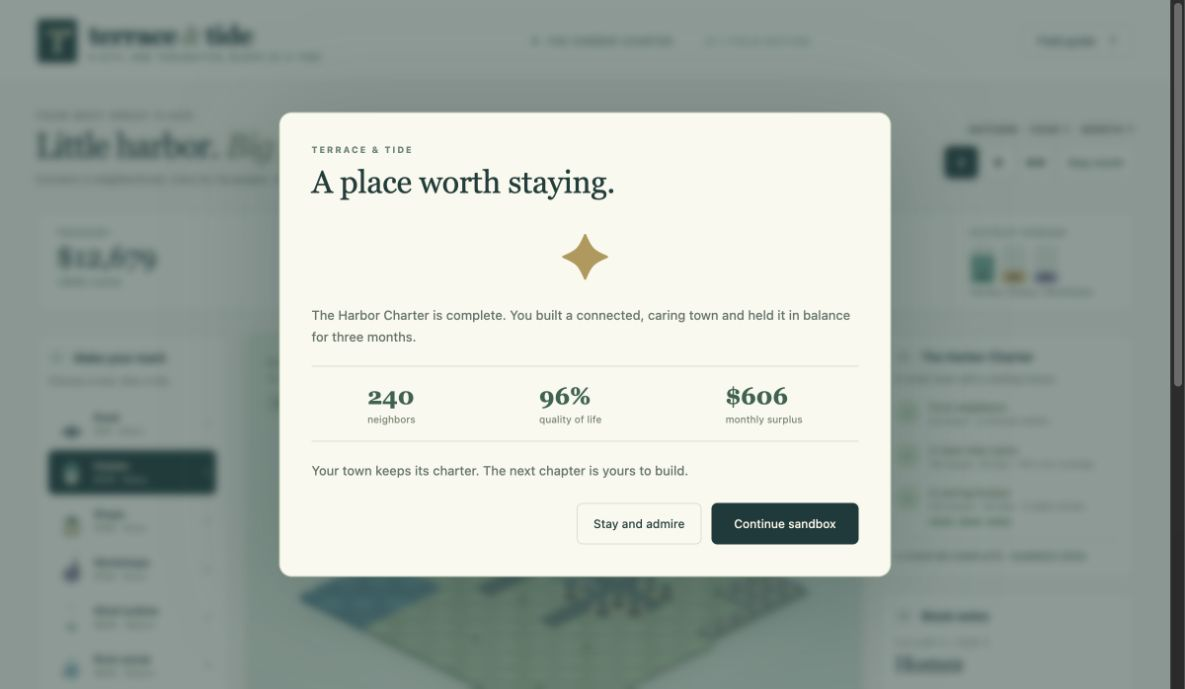
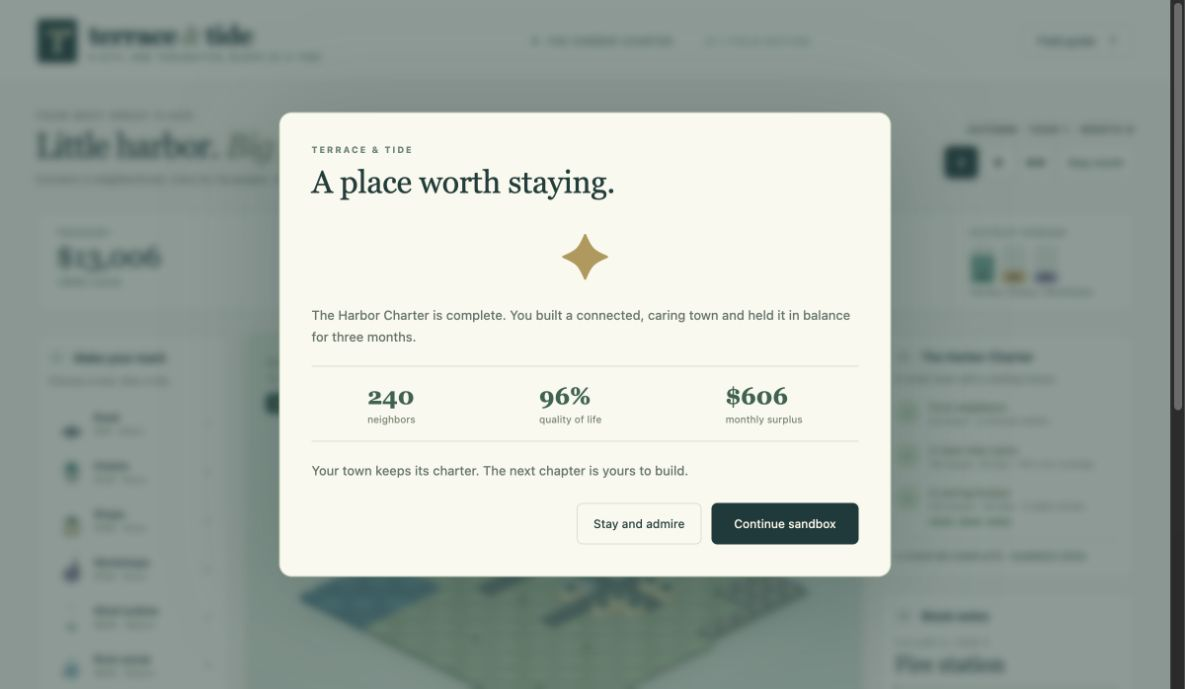
docs: record actual gameplay, review fixes and accessible save fallback

diff --git a/src/main.ts b/src/main.ts
@@ -484,13 +484,25 @@ $('#load').onclick = () => {
   }
 };
 $('#export').onclick = () => {
-  const url = URL.createObjectURL(new Blob([serialize(city)], { type: 'application/json' }));
-  const a = document.createElement('a');
-  a.href = url;
-  a.download = `terrace-tide-month-${city.month}.json`;
-  a.click();
-  setTimeout(() => URL.revokeObjectURL(url), 1000);
-  notify('City file downloaded. Import it here to continue later.');
+  const raw = serialize(city);
+  modal(
+    'Keep your city safe.',
+    '<p>Download a JSON file, or select and copy the complete save below. Import accepts either a file or pasted JSON. These are local files; nothing is uploaded.</p><label class="save-json-label" for="export-json">City save JSON</label><textarea id="export-json" rows="5" readonly></textarea>',
+    'Download JSON',
+    () => {
+      const url = URL.createObjectURL(new Blob([raw], { type: 'application/json' }));
+      const a = document.createElement('a');
+      a.href = url;
+      a.download = `terrace-tide-month-${city.month}.json`;
+      document.body.append(a);
+      a.click();
+      a.remove();
+      setTimeout(() => URL.revokeObjectURL(url), 1000);
+      notify('Save download requested. You can also copy JSON from Download save.');
+    },
+    'Close',
+  );
+  $<HTMLTextAreaElement>('#export-json').value = raw;
 };
 $('#import').onclick = () => {
   modal(

diff --git a/index.html b/index.html
@@ -1,1 +1,1 @@
-<!doctype html><html lang="en"><head><meta charset="UTF-8"><meta name="viewport" content="width=device-width,initial-scale=1"><meta name="theme-color" content="#102d32"><meta name="description" content="Grow a harbor town one thoughtful block at a time. An original spatial city-building game."><title>Terrace & Tide · Make room for a better city</title></head><body><div id="app"></div><script type="module" src="/src/main.ts"></script></body></html>
+<!doctype html><html lang="en"><head><meta charset="UTF-8"><meta name="viewport" content="width=device-width,initial-scale=1"><meta name="theme-color" content="#102d32"><meta name="description" content="Grow a harbor town one thoughtful block at a time. An original spatial city-building game."><link rel="icon" href="/favicon.svg" type="image/svg+xml"><title>Terrace & Tide · Make room for a better city</title></head><body><div id="app"></div><script type="module" src="/src/main.ts"></script></body></html>

diff --git a/tests/save.test.ts b/tests/save.test.ts
@@ -103,3 +103,13 @@ it('rejects impossible progression but allows a won city to be demolished later'
   tick(d);
   expect(deserialize(serialize(d)).won).toBe(true);
 });
+
+it('loads the independent browser-played exported city without changing its finances', async () => {
+  const { readFile } = await import('node:fs/promises');
+  const raw = await readFile(new URL('../qa/browser-played-city.json', import.meta.url), 'utf8');
+  const city = deserialize(raw);
+  expect(city.month).toBe(503);
+  expect(city.cash).toBe(313582);
+  expect(city.won).toBe(true);
+  expect(city.speed).toBe(0);
+});

diff --git a/src/style.css b/src/style.css
@@ -1239,7 +1239,8 @@ summary {
   font-size: 12px;
   font-weight: 600;
 }
-#save-json {
+#save-json,
+#export-json {
   width: 100%;
   resize: vertical;
   min-height: 100px;
@@ -1251,7 +1252,8 @@ summary {
   font-family: ui-monospace, monospace;
   font-size: 11px;
 }
-#save-json:focus-visible {
+#save-json:focus-visible,
+#export-json:focus-visible {
   outline: 3px solid #c87e36;
   outline-offset: 2px;
 }

diff --git a/docs/QA.md b/docs/QA.md
@@ -1,0 +1,45 @@
+# QA evidence
+
+QA uses the user's existing supported local Chrome extension browser. A new game tab opened at http://127.0.0.1:5210/; earlier game tabs/servers were not touched. No Mac unlock, hidden browser-state mutation, security setting change or public hosting was used.
+
+## Actual browser-played charter
+The corrected implementation was built from an empty $14,000 city through visible tile controls, tool buttons and coordinate navigation. Human coordinates are 1-based:
+
+- Roads: row 6, columns 3–12; columns 6 and 10, rows 5,7,8,9,10.
+- Pump (3,5), turbine (4,5), clinic (7,5), fire station (8,5).
+- Homes: (5,5), (6,4), (7,7), (8,7), (9,5), (9,7).
+- Shops: (11,5), (12,5), (11,7), (12,7), (9,8), (11,8).
+
+Construction leaves $9,050. Seven visible Step month actions settled these observed states:
+
+| Settled month | Residents | Jobs | Treasury | Charter |
+|---|---:|---:|---:|---|
+|1|40|60|9,458|First neighbors +$500|
+|3|160|120|10,652|Caring town +$750|
+|5|240|180|11,794|Stable 1/3|
+|6|240|180|12,400|Stable 2/3|
+|7|240|180|13,006|Victory modal; 96% satisfaction, $606/mo surplus|
+
+[Victory screenshot](../qa/charter-victory.jpg). Continue sandbox was activated through the normal button. Normal and fast controls were exercised; the final city ran naturally to settled month 503, still 240 residents/180 jobs/96%/$606 surplus and $313,582 treasury. It was paused and manually saved. The [played save](../qa/browser-played-city.json) was obtained from the visible export textarea, not hidden storage or state; it round-tripped through visible paste import. [Sandbox screenshot](../qa/sandbox-city.jpg).
+
+## Actual browser interactions
+
+- Canceled New city, demolition and Load dialogs: city/treasury unchanged. Confirmed New city only for disposable pressure scenarios; restored the manual charter city afterward. Dialogs stop settlement.
+- Removed the road at (5,6): utilities disconnected, after a month population fell from 240 to 180 and jobs to 120. Rebuilt the road: next month restored 240/180. Duplicate Apply did not charge again. [Cut](../qa/network-cut.jpg).
+- Raised tax with keyboard slider to 15%: residents declined, then restoring 9% restored growth.
+- Built ten idle turbines: $5,000 cash, -$600/mo; ten Step actions reached -$1,000. Unaffordable construction refused without charge. Grant brought $2,000 and disabled its button. Free demolition stopped upkeep. A two-road, one-home/one-shop town with one pump/turbine recovered from $90 to $571 at $24/mo. [Pressure](../qa/budget-pressure.jpg), [recovered town](../qa/recovered-town.jpg).
+- Final implementation fallback: ten turbines → debt → grant → further debt at -$4,000; demolished all ten through confirmation dialogs; next Step yielded $3,000 fresh-start relief. [Relief](../qa/fresh-start-relief.jpg). Thus even an exhausted grant cannot softlock an empty town.
+- Placed connected industry at (7,8): the home (7,7) reached pollution 54, showed the explicit stall reason and declined, total people 230. Park (7,9) reduced pollution and restored 240 next month. Restored the saved clean town.
+- Mouse drag painted five consecutive road tiles and charged exactly $150; a later click placed just one tile. Keyboard arrows/Enter and tool shortcuts worked. Escape/blur/cancel/pointercancel handlers clear painting. Native Space activated buttons after the review fix; focus remained on the selected map tile through automatic ticks.
+- 390×844 responsive override: usable stacked tools/cards; actual coordinate construction and keyboard navigation; repeated placement charged once; horizontal map pan and zoom (100→125→100%) worked. Restored normal viewport. [Mobile](../qa/mobile-planning.jpg). Narrow screens intentionally pan a 540px map rather than shrinking tiles beyond readability.
+- Manual Save/Load, canceled load and browser reload retained the correct state and resumed paused. Corrupt pasted JSON displayed an error and retained treasury. A valid visible JSON export imported with the exact treasury/month/charter.
+
+## Automated evidence and limits
+
+36 targeted tests initially passed after review, including network islands/cuts/reconnections, capacity overflow/restoration and plant nondeduplication, invalid/unaffordable/duplicate placement, free demolition, jobless growth cap, workforce/employment/demand/tax literals, pollution/parks, shared-network service coverage, exact charter thresholds and grants, insolvency/recovery, bounded long sandbox, pause/speed equivalence, interrupted clock catch-up, and malformed/corrupt/progression save rejection. A later fixture test checks the independently browser-played save. Public domain fixtures construct through place/tick; these automated simulations are **separate** from the actual browser play described above.
+
+Chrome extension file chooser upload was blocked because Allow access to file URLs is disabled. That permission was left untouched. Paste-JSON import was fully exercised instead. Download event capture timed out, so automated native file download/picker completion is not claimed; visible export JSON and save/load/import round-trip are verified. Console warnings observed originated from another installed browser extension; no game-origin JavaScript error was observed. Cross-browser, real mobile touch hardware and OS download picker QA were not performed.
+
+## Final delivery checks
+
+Final tests/typecheck/format/build/audit and exact final-commit CI status are reported in the delivery response. Production serving uses scripts/serve.mjs in a detached session-only Node process, without boot/login registration. Root HTML, fingerprinted JavaScript/CSS and favicon must return HTTP 200; final supported Chrome reload is checked after switching off the development server. Current game remains paused with the browser-played town.

diff --git a/docs/REVIEW.md b/docs/REVIEW.md
@@ -1,0 +1,12 @@
+# Independent review
+
+Applied the local Matt Pocock code-review skill with two independent read-only agents. Baseline `bd835e0` (approved autonomous spec), implementation initially `bce670c`; resolved implementation `5ade8e58c2f2735f477810038bcc878afb2c3ba0`. No originating tracker issue; source is docs/SPEC.md. Both reviewers independently ran the domain suite.
+
+## Standards
+Initial findings, all P2: strict saves allowed impossible progression; SVG replacement lost map focus after tool shortcuts/settlement; global Space intercepted native button activation. Fixed by progression/history invariants that preserve won sandbox saves, central focus restoration excluding modals, and native-control exclusion for Space. Reviewer rechecked the exact resolved commit: **pass, no new blocking standards issue, 36 tests passed**. Browser subsequently verified tool selection and arrows, persistent map focus through running ticks, Space pause on map, and Space activation of Field guide/Save/Continue sandbox.
+
+## Spec
+Initial medium finding: a shared pre-growth snapshot allowed each home its own startup allowance. Public-seam reproduction admitted 150 residents with no jobs in month 1. Fixed to distribute one total 40-person allowance deterministically across all homes; job-backed growth still uses a shared snapshot. Reviewer independently reproduced 15 homes with no jobs: **40 residents after months 1 and 2; all 36 tests passed; no remaining spec blocker**. The six-home/six-shop charter path now finishes in month 7 and was replayed through actual Chrome controls.
+
+## Final small delivery changes
+Visible export JSON fallback, original favicon, formatting CI step and delivery documentation were added after the main review, with follow-up review requested. These do not change simulation semantics. Final validation and review outcome are recorded in QA.md.
